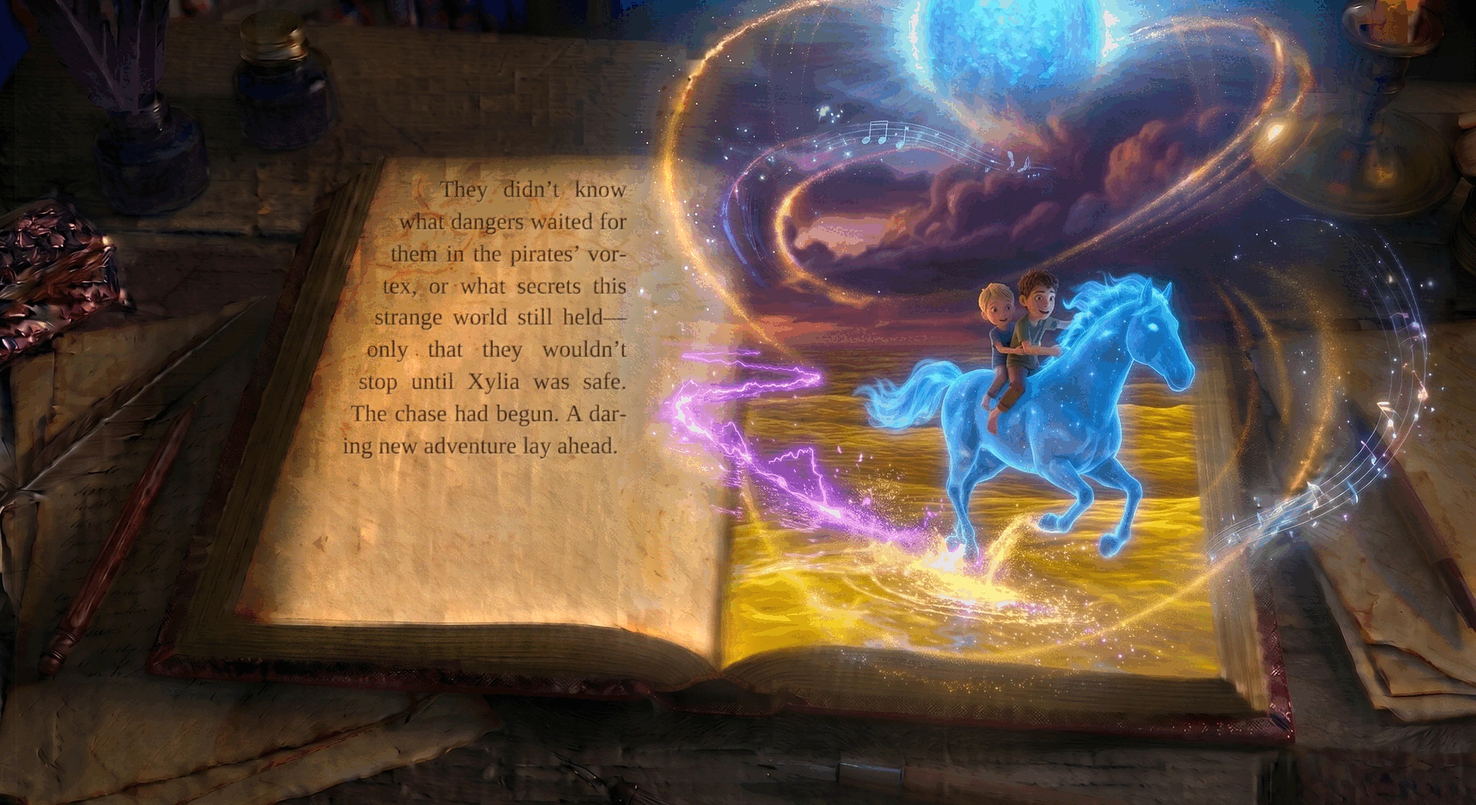
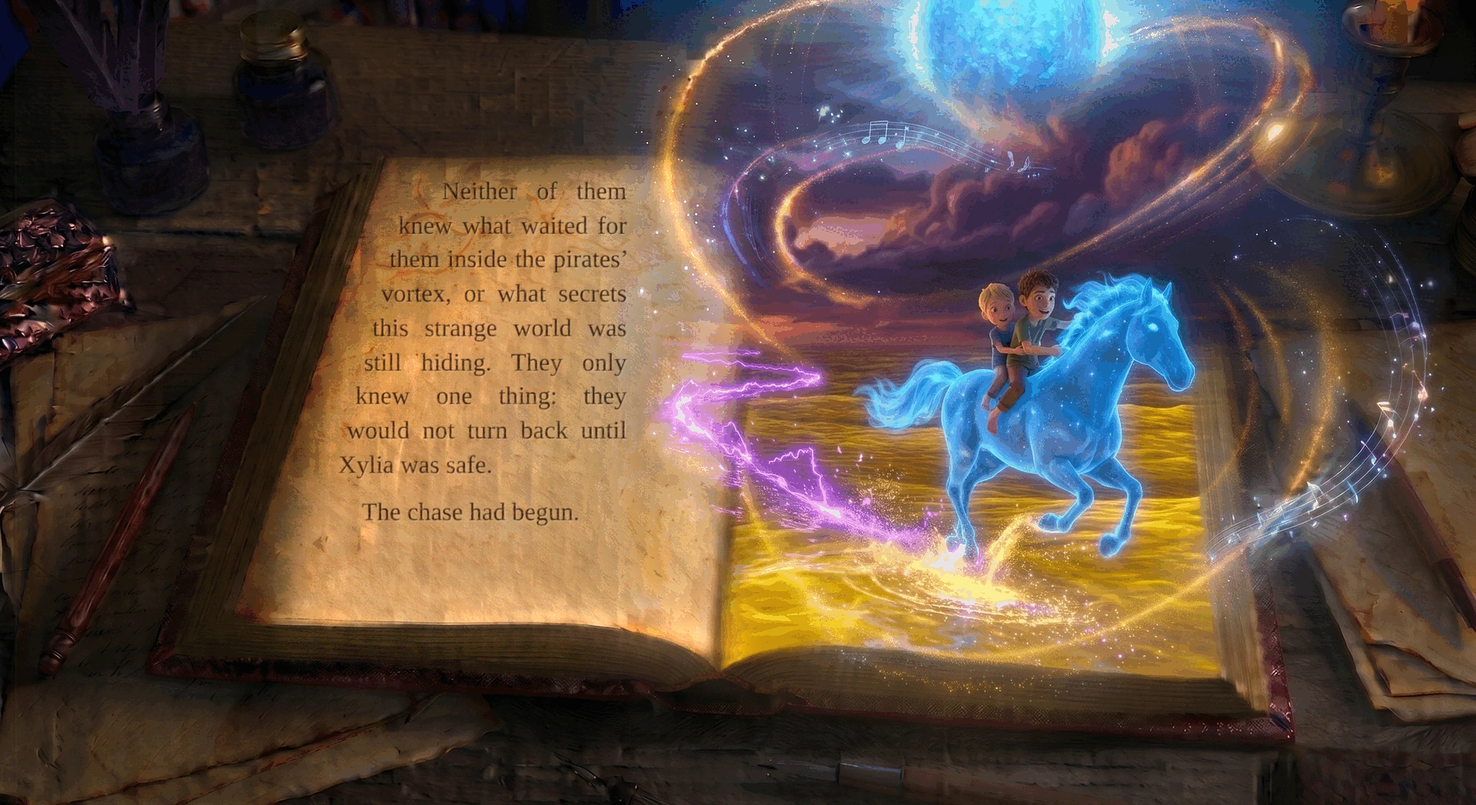
Rewrite ending after 'Beneath'; page 99 back to static art
Claude-Session: https://claude.ai/code/session_01BFtifSTdmWYaAK88ECs5PE

Changed region(s): [[0.2188, 0.2188, 0.4375, 0.5938], [0.25, 0.625, 0.4062, 0.6562]]

diff --git a/books/upside-down-world/story.js b/books/upside-down-world/story.js
@@ -100,5 +100,5 @@ window.STORY={"title":"The Upside-Down World","author":"M. A. Mafodh","pages":[
 {"img":"p38b","book":true,"box":[374,172,552,596],"parts":["\"Xylia!\" Leo screamed, but it was too late. The wagon zoomed away, a trail of black smoke behind it. Xylia was gone.\nSam started to cry, silent tears streaming down his face. \"They took her.\"\nLeo was scared, so scared he thought he might be sick. But looking at Sam's crying face, something else pushed the fear away. Anger. He was the big brother. He had to be brave.\nHe pulled Sam close."],"video":"p38bv"},
 {"img":"p39b","book":true,"box":[374,172,552,596],"parts":["\"We're going to get her back,\" he said, his voice shaking but firm. \"We are the only ones who can help her. They don't know who they're messing with.\"\nSam sniffled, wiping his nose on his sleeve. \"How? They have a wagon and cannonballs! We just have a... a blue horse.\""],"video":"p39bv"},
 {"img":"p40","book":true,"box":[374,172,552,596],"parts":["Leo looked at their glowing horse, which was nudging him sadly. He looked at the sea. Then he saw something—the tiny winged sea-creature Sam had freed was hovering in the air ahead, chirping urgently and pointing its nose toward the surface, where the pirates had forgotten one thing."],"video":"p40v"},
-{"img":"p40b","book":true,"box":[374,172,552,596],"parts":["“They left a trail, Sam!” Leo said. “Follow that trail!” Leo leaned forward and the horse took off, following the faint trail of dark smoke in the clear blue sky.\nBeneath the glowing blue sun—which was already beginning its first slow dip toward the horizon—the golden sea stretched out like a vast, uncharted map. With Sam holding tight and the wind roaring in their ears, Leo urged their glowing horse faster, chasing the fading ribbon of dark smoke toward the distant, crystalline horizon."],"video":"p40bv"},
-{"img":"p41b","sprite":"p41k","dust":true,"book":true,"box":[374,170,584,596],"parts":["They didn’t know what dangers waited for them in the pirates’ vortex, or what secrets this strange world still held—only that they wouldn’t stop until Xylia was safe. The chase had begun. A daring new adventure lay ahead."]}]};
+{"img":"p40b","book":true,"box":[374,170,584,596],"parts":["“They left a trail, Sam!” Leo said. “Follow that trail!” Leo leaned forward and the horse took off, following the faint trail of dark smoke in the clear blue sky.\nBeneath the glowing blue sun, which had begun its first slow dip toward the horizon, the golden sea stretched out like an uncharted map. Sam held on tight as the wind roared in their ears, and Leo leaned low over the horse’s neck. Far ahead, a thin ribbon of dark smoke curled across the water, fading with every mile."],"sprite":"p40k","dust":true},
+{"img":"p41b","sprite":"p41k","dust":true,"book":true,"box":[374,170,584,596],"parts":["Neither of them knew what waited for them inside the pirates’ vortex, or what secrets this strange world was still hiding. They only knew one thing: they would not turn back until Xylia was safe.\nThe chase had begun."]}]};

diff --git a/books/upside-down-world/index.html b/books/upside-down-world/index.html
@@ -131,7 +131,7 @@ body.narrow #bar{gap:6px;padding-top:8px}body.narrow #bar button{padding:0 12px;
   <button id="auto" aria-pressed="true" title="Turn the pages by itself">Auto turn</button>
   <button id="next" aria-label="Next page">&#8594;</button>
 </div>
-<script src="story.js?v=118"></script>
+<script src="story.js?v=119"></script>
 <script src="sprite.js?v=42"></script>
 <script src="lyrics.js?v=2"></script><script src="lyrics2.js?v=1"></script>
 <script src="voice.js?v=20"></script>
@@ -217,7 +217,7 @@ const vids={};let blackT=null;
 function black(){if(!blackT&&gl){blackT=gl.createTexture();gl.bindTexture(gl.TEXTURE_2D,blackT);gl.texImage2D(gl.TEXTURE_2D,0,gl.RGB,1,1,0,gl.RGB,gl.UNSIGNED_BYTE,new Uint8Array([0,0,0]));}return {ready:true,t:blackT};}
 function loadVid(name){if(vids[name])return vids[name];const v=document.createElement('video');v.muted=true;v.defaultMuted=true;v.loop=true;v.playsInline=true;v.setAttribute('playsinline','');v.setAttribute('muted','');v.preload='auto';v.crossOrigin='anonymous';v.src='img/'+name+'.mp4?v=68';
   const o={v,t:null,ok:false};v.addEventListener('playing',()=>{o.ok=true;});vids[name]=o;return o;}
-function pageTex(p){if(p.video)return {c:loadTex('img/'+p.img+'.webp?v=76'),d:p.relief?loadTex('img/'+p.img+'-d.webp'):black(),vid:loadVid(p.video)};return {c:loadTex('img/'+p.img+'.webp?v=76'),d:loadTex('img/'+p.img+'-d.webp')};}
+function pageTex(p){if(p.video)return {c:loadTex('img/'+p.img+'.webp?v=77'),d:p.relief?loadTex('img/'+p.img+'-d.webp'):black(),vid:loadVid(p.video)};return {c:loadTex('img/'+p.img+'.webp?v=77'),d:loadTex('img/'+p.img+'-d.webp')};}
 const ORIGIN={kb:[.72,.55],shade:[.80,.74]};
 function whv(p){return p.whale?[p.whale[0]/1408,p.whale[1]/768,p.whale[2]/1408,p.whale[3]/768]:[0,0,0,0];}
 function swv(p){return p.swirl?[p.swirl[0]/1408,p.swirl[1]/768,p.swirl[2],p.swirl[3]||0]:[0,0,0,0];}
@@ -242,7 +242,7 @@ function makeLayer(i){
   if(layers[i])return layers[i];
   const p=P[i],L=document.createElement('div');L.className='layer';
   const kb=document.createElement('div');kb.className='kb';kb.style.transformOrigin=(p.fx==='shade'?'80% 74%':'72% 55%');
-  if(!gl){let im;if(p.video){im=loadVid(p.video).v;im.poster='img/'+p.img+'.webp';}else{im=new Image();im.src='img/'+p.img+'.webp?v=76';im.alt='';}im.className='fb';kb.appendChild(im);}
+  if(!gl){let im;if(p.video){im=loadVid(p.video).v;im.poster='img/'+p.img+'.webp';}else{im=new Image();im.src='img/'+p.img+'.webp?v=77';im.alt='';}im.className='fb';kb.appendChild(im);}
   if(p.fx==='shade'){const s=document.createElement('div');s.className='shade';kb.appendChild(s);L._shade=s;}
   if(p.song){const r=document.createElement('div');r.className='rings';r.style.cssText='left:'+(650/W*100)+'%;top:'+(55/H*100)+'%;width:'+(130/W*100)+'%;height:'+(130/H*100)+'%';r.innerHTML='<i></i><i></i><i></i><i></i>';kb.appendChild(r);L._rings=r;}
   const t=document.createElement('div');t.className='txt'+(p.cover?' cover':'')+(p.book?' bk':'')+(p.songcard?' sc':'')+(p.big?' big':'');let b=p.box;
